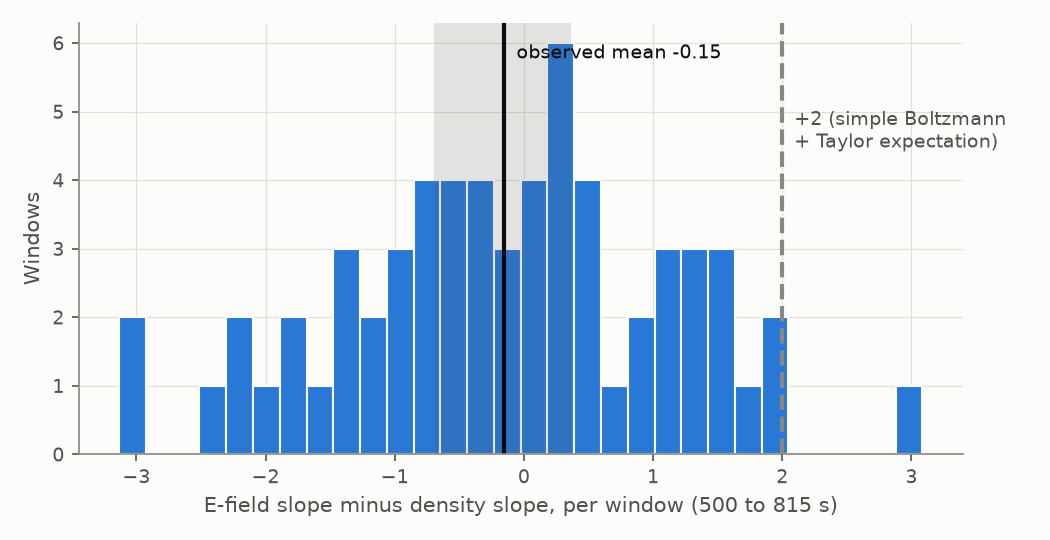
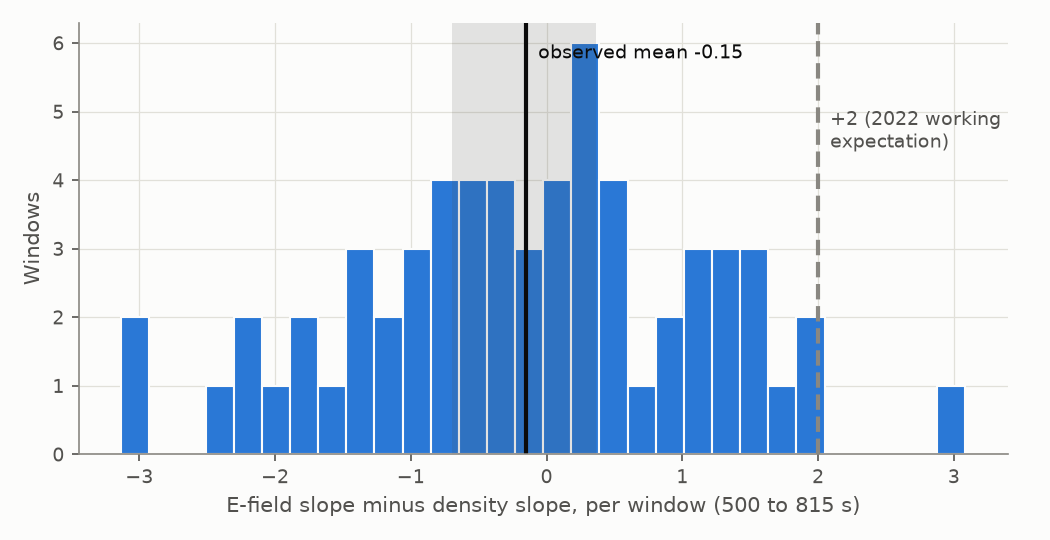
docs: present +2 slope difference as a working assumption
State the argument behind it and the assumptions it needs, and note that
two MATLAB headers say TRICE2-LOW while the data is believed to be from
TRICE-2 High.

diff --git a/src/plasma_physics/report.py b/src/plasma_physics/report.py
@@ -307,7 +307,7 @@ def plot_slope_diff(d: np.ndarray, ci: tuple[float, float], path: Path) -> None:
     ax.text(
         2,
         top * 0.80,
-        "  +2 (simple Boltzmann\n  + Taylor expectation)",
+        "  +2 (2022 working\n  expectation)",
         color=INK_2,
         fontsize=9,
         va="top",

diff --git a/README.md b/README.md
@@ -12,7 +12,7 @@ Does the electron density in the aurora follow the **Boltzmann relation**, that 
 
 - **The 2022 analysis is reproduced exactly.** The Python port recomputes all 165 MATLAB windows, with a maximum difference of 5e-7 (the rounding of the original text output).
 - **Density and E field are linearly related, but only in some stretches of the flight.** The coherence in the 10-40 Hz band is small but well above chance over the whole flight (permutation test, p = 0.001). In blocks of about 28 s, it is significant in 4 of 14 blocks after a Bonferroni correction, all between about 490 s and 820 s. This puts a number on the 2022 impression that "the relation shows up only in some cases".
-- **The spectral slopes do not show the expected difference.** In the main period (500-815 s) the E-field slope minus the density slope is -0.15, 95% CI [-0.69, 0.36]. A simple model (Boltzmann relation plus structures carried past the rocket unchanged) predicts about +2. The difference also moves from -1.4 to +0.4 depending on the fit band, so slopes alone are a fragile test.
+- **The spectral slopes do not show the difference we expected.** In the main period (500-815 s) the E-field slope minus the density slope is -0.15, 95% CI [-0.69, 0.36]. Our working expectation in 2022 was about +2 (see Limitations for the assumptions behind it). The difference also moves from -1.4 to +0.4 depending on the fit band, so slopes alone are a fragile test.
 - **Before about 500 s, the density data cannot answer the question.** Its spectrum is flat in 10-40 Hz (slope about 0), which means the traced density is at its noise floor there. A better plasma-frequency trace is the main lever to improve the result (see Next steps).
 
 | | 2022 (MATLAB) | 2026 (Python) |
@@ -90,7 +90,8 @@ The original MATLAB scripts are in [`matlab/`](matlab/), numbered in pipeline or
 - The electric field is in raw counts from one probe pair. Without the second pair the signal cannot be despun, and the instrument's frequency response is not applied.
 - The spike detector is conservative: it also flags some small jumps that are not spikes. That only discards segments (445 kept out of about 850 possible); it never lets a spike in.
 - Coherence blocks are defined by segment count (30), so their duration varies (28 to 109 s).
-- The +2 expectation for the slope difference assumes the Boltzmann relation and structures frozen into a flow past the rocket; it is a simplified model, not a fitted prediction.
+- The +2 expected slope difference was a working value from discussions in the group, not taken from the literature. It follows from a simple argument: the Boltzmann relation gives δn/n ∝ δφ, and E = -∇φ gives |E(k)|² ∝ k²|δn(k)|², so if structures drift past the rocket unchanged (frequency ∝ k) the E-field slope is 2 higher (flatter) than the density slope. It assumes constant electron temperature, frozen-in structures, and that the probe measures E along k, which a spinning single probe pair does not guarantee. The correct expectation for this geometry still needs to be checked.
+- Two MATLAB headers (`step06`, `step07`) say "TRICE2-LOW"; to the best of my knowledge the data is from TRICE-2 High, as the original manual states. To be confirmed with Prof. LaBelle.
 
 **Next steps**
 1. Rebuild the plasma-frequency trace automatically from the HF spectra (change-point score plus Viterbi tracking, outlined in [`plasma_freq.py`](src/plasma_physics/plasma_freq.py)), and validate it against the hand-corrected trace.
